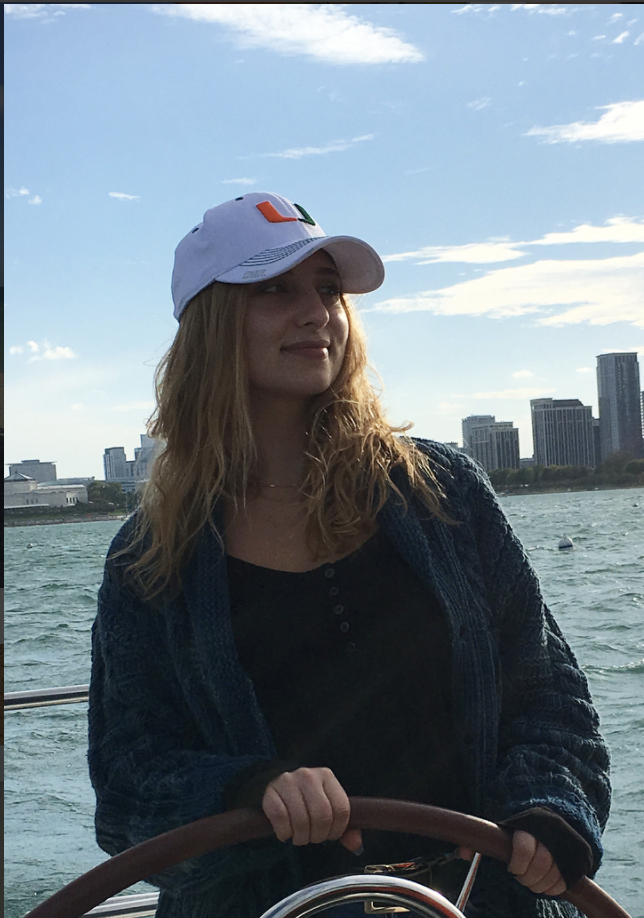
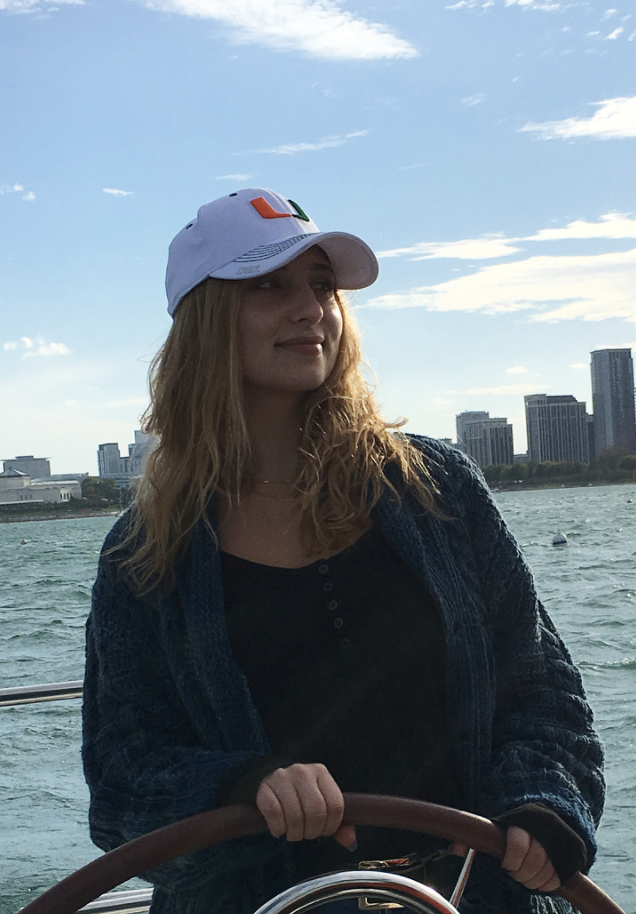
comaojnsd

diff --git a/Homework/resume/index.html b/Homework/resume/index.html
@@ -28,7 +28,8 @@
 
         <h1>About Me</h1>
         <br>
-        <img src="/images/Josie.jpg" width="500">
+        <img src="images/Josie.jpg" width="3
+        00">
         <br>
         <p>paragraph about me...</p>
 
@@ -37,8 +38,12 @@
     <h1>Work Experience</h1>
 
     <h1>Hobbies & Interests</h1>
-      <ul>
-      </ul>
+
+    <ul>
+      <li>One</li>
+      <li>Two</li>
+      <li>Three</li>
+    </ul>
 
 <br>
 
